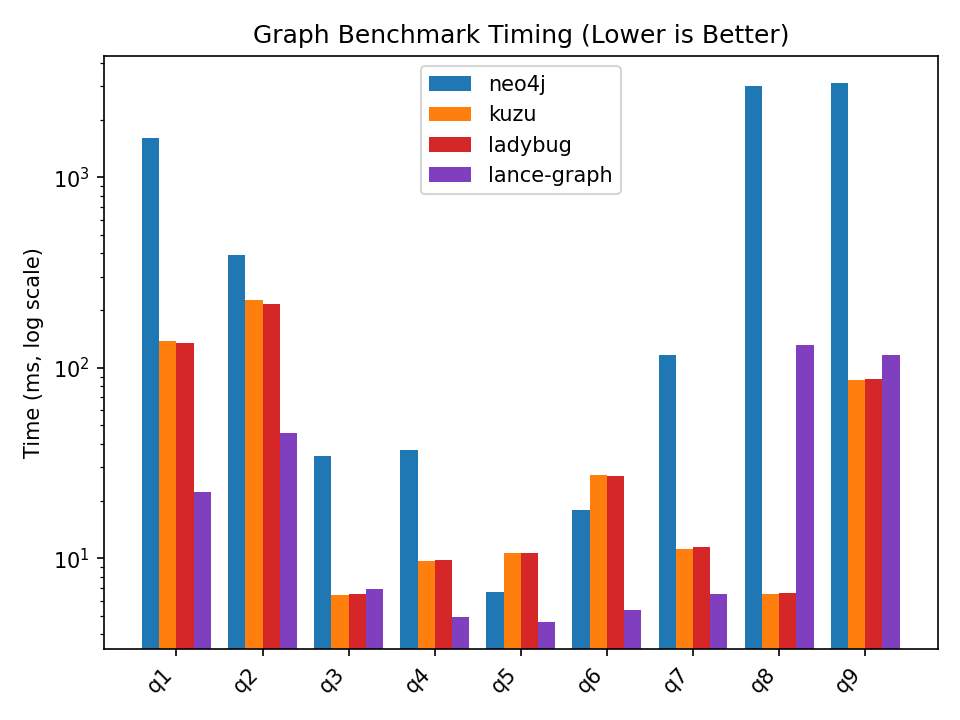
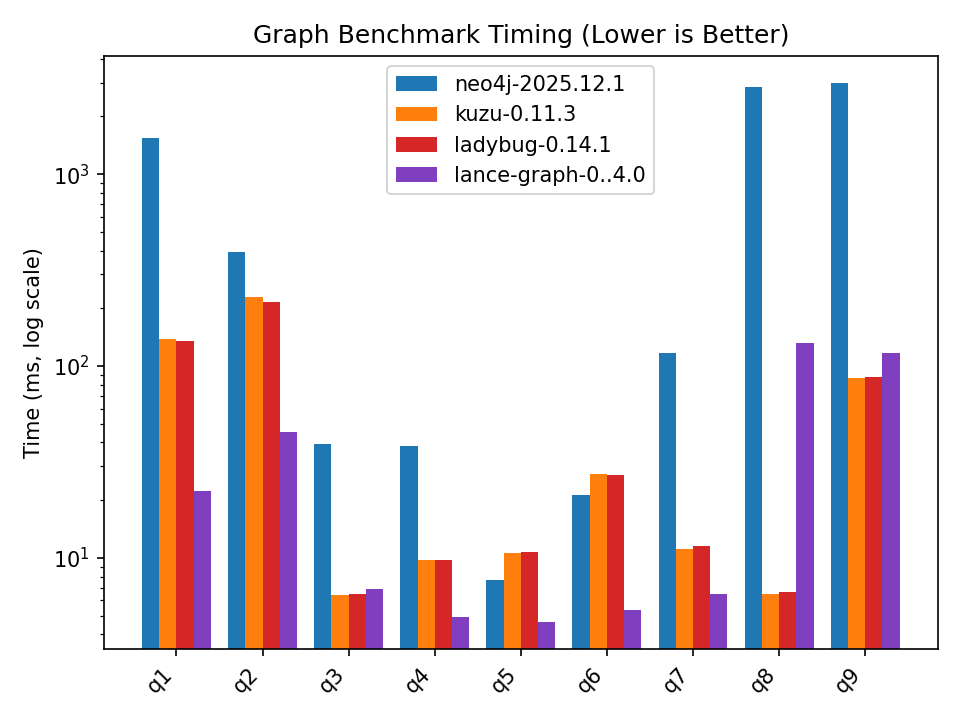
Pin versions to comparison plot (#10)
- Closes #5

diff --git a/results/compare.py b/results/compare.py
@@ -16,6 +16,10 @@ ROUND_MS_DECIMALS = 0
 SPEEDUP_DECIMALS = 1
 
 
+def normalize_name(name: str) -> str:
+    return re.sub(r"[-_.]+", "-", name).lower()
+
+
 def parse_benchmark_file(path: Path) -> dict[str, float]:
     unit: str | None = None
     unit_scale: float | None = None
@@ -60,6 +64,15 @@ def to_markdown_table(headers: list[str], rows: list[list[str]]) -> str:
     return "\n".join(lines)
 
 
+def resolve_color(system: str, color_map: dict[str, str]) -> str | None:
+    normalized_system = normalize_name(system)
+    normalized_map = {normalize_name(key): value for key, value in color_map.items()}
+    for key in sorted(normalized_map, key=len, reverse=True):
+        if key in normalized_system:
+            return normalized_map[key]
+    return None
+
+
 def plot_results(
     systems: list[str],
     queries: list[str],
@@ -94,7 +107,7 @@ def plot_results(
             series,
             width=bar_width,
             label=system,
-            color=color_map.get(system),
+            color=resolve_color(system, color_map),
         )
 
     plt.xticks(x, queries, rotation=45, ha="right")
@@ -114,10 +127,12 @@ def main() -> None:
     if not files:
         raise SystemExit("No .txt files found in results directory.")
 
-    systems = sorted(path.stem for path in files)
-    if "neo4j" in systems:
-        systems.remove("neo4j")
-        systems.insert(0, "neo4j")
+    for idx, path in enumerate(files):
+        if "neo4j" in path.stem:
+            files.insert(0, files.pop(idx))
+            break
+
+    systems = [path.stem for path in files]
     system_results = {path.stem: parse_benchmark_file(path) for path in files}
     all_queries = sorted(
         {query for results in system_results.values() for query in results},

diff --git a/neo4j/README.md b/neo4j/README.md
@@ -268,15 +268,15 @@ benchmark_query.py .........                                        [100%]
 --------------------------------------------------------------------------------- benchmark: 9 tests ---------------------------------------------------------------------------------
 Name (time in s)             Min               Max              Mean            StdDev            Median               IQR            Outliers       OPS            Rounds  Iterations
 --------------------------------------------------------------------------------------------------------------------------------------------------------------------------------------
-test_benchmark_query1     1.5546 (281.31)   1.7013 (147.82)   1.6158 (240.11)   0.0599 (62.78)    1.6031 (246.51)   0.0952 (145.78)        2;0    0.6189 (0.00)          5           1
-test_benchmark_query2     0.3849 (69.65)    0.3972 (34.51)    0.3904 (58.01)    0.0045 (4.77)     0.3907 (60.07)    0.0054 (8.21)          2;0    2.5615 (0.02)          5           1
-test_benchmark_query3     0.0308 (5.57)     0.0489 (4.25)     0.0344 (5.11)     0.0049 (5.09)     0.0326 (5.02)     0.0022 (3.30)          3;3   29.0595 (0.20)         19           1
-test_benchmark_query4     0.0335 (6.07)     0.0446 (3.87)     0.0369 (5.48)     0.0029 (3.00)     0.0358 (5.50)     0.0027 (4.12)          5;2   27.1346 (0.18)         23           1
-test_benchmark_query5     0.0055 (1.0)      0.0115 (1.0)      0.0067 (1.0)      0.0010 (1.0)      0.0065 (1.0)      0.0007 (1.0)          13;7  148.6023 (1.0)          90           1
-test_benchmark_query6     0.0150 (2.71)     0.0229 (1.99)     0.0179 (2.66)     0.0017 (1.82)     0.0177 (2.72)     0.0024 (3.74)         18;0   55.8948 (0.38)         46           1
-test_benchmark_query7     0.1136 (20.55)    0.1201 (10.43)    0.1162 (17.27)    0.0027 (2.80)     0.1146 (17.62)    0.0047 (7.15)          2;0    8.6058 (0.06)          9           1
-test_benchmark_query8     2.9622 (536.02)   3.0920 (268.65)   3.0117 (447.54)   0.0496 (52.04)    3.0087 (462.66)   0.0575 (87.95)         1;0    0.3320 (0.00)          5           1
-test_benchmark_query9     3.0849 (558.21)   3.1731 (275.69)   3.1241 (464.25)   0.0335 (35.16)    3.1153 (479.05)   0.0453 (69.28)         2;0    0.3201 (0.00)          5           1
+test_benchmark_query1     1.5302 (263.22)   1.5735 (120.31)   1.5520 (201.38)   0.0197 (13.74)    1.5539 (204.09)   0.0369 (19.42)         2;0    0.6443 (0.00)          5           1
+test_benchmark_query2     0.3904 (67.15)    0.4053 (30.99)    0.3950 (51.25)    0.0059 (4.16)     0.3936 (51.70)    0.0052 (2.76)          1;1    2.5317 (0.02)          5           1
+test_benchmark_query3     0.0328 (5.65)     0.0531 (4.06)     0.0391 (5.07)     0.0051 (3.58)     0.0381 (5.01)     0.0072 (3.80)          5;0   25.5830 (0.20)         18           1
+test_benchmark_query4     0.0345 (5.94)     0.0457 (3.49)     0.0383 (4.97)     0.0031 (2.15)     0.0376 (4.94)     0.0043 (2.29)          9;0   26.0961 (0.20)         25           1
+test_benchmark_query5     0.0058 (1.0)      0.0131 (1.0)      0.0077 (1.0)      0.0014 (1.0)      0.0076 (1.0)      0.0019 (1.0)          21;2  129.7534 (1.0)          73           1
+test_benchmark_query6     0.0176 (3.03)     0.0250 (1.91)     0.0212 (2.75)     0.0016 (1.14)     0.0210 (2.76)     0.0020 (1.07)         16;0   47.2141 (0.36)         48           1
+test_benchmark_query7     0.1147 (19.73)    0.1217 (9.31)     0.1174 (15.24)    0.0023 (1.64)     0.1166 (15.32)    0.0023 (1.19)          4;0    8.5164 (0.07)          9           1
+test_benchmark_query8     2.8002 (481.67)   2.8990 (221.67)   2.8312 (367.36)   0.0439 (30.69)    2.8040 (368.27)   0.0639 (33.63)         1;0    0.3532 (0.00)          5           1
+test_benchmark_query9     2.9634 (509.73)   3.0199 (230.91)   2.9867 (387.54)   0.0244 (17.08)    2.9736 (390.56)   0.0393 (20.66)         1;0    0.3348 (0.00)          5           1
 --------------------------------------------------------------------------------------------------------------------------------------------------------------------------------------
 
 Legend:

diff --git a/README.md b/README.md
@@ -98,17 +98,17 @@ The following questions are asked of both graphs:
 
 ## High-level results
 
-| Query | neo4j (ms) | kuzu (ms) | ladybug (ms) | lance-graph (ms) |
+| Query | neo4j 2025.12.1 (ms) | kuzu 0.11.3 (ms) | ladybug (ms) | lance-graph 0.4.0 (ms) |
 | --- | --- | --- | --- | --- |
-| q1 | 1616ms | 138ms (11.7x) | 135ms (12.0x) | 22ms (72.7x) |
-| q2 | 390ms | 228ms (1.7x) | 215ms (1.8x) | 45ms (8.6x) |
-| q3 | 34ms | 6ms (5.4x) | 6ms (5.3x) | 7ms (5.0x) |
-| q4 | 37ms | 10ms (3.8x) | 10ms (3.8x) | 5ms (7.5x) |
-| q5 | 7ms | 11ms (0.6x) | 11ms (0.6x) | 5ms (1.5x) |
-| q6 | 18ms | 27ms (0.7x) | 27ms (0.7x) | 5ms (3.4x) |
-| q7 | 116ms | 11ms (10.4x) | 11ms (10.1x) | 6ms (18.0x) |
-| q8 | 3012ms | 7ms (463.0x) | 7ms (455.8x) | 132ms (22.8x) |
-| q9 | 3124ms | 86ms (36.3x) | 88ms (35.6x) | 117ms (26.6x) |
+| q1 | 1552ms | 138ms (11.2x) | 135ms (11.5x) | 22ms (69.8x) |
+| q2 | 395ms | 228ms (1.7x) | 215ms (1.8x) | 45ms (8.7x) |
+| q3 | 39ms | 6ms (6.1x) | 6ms (6.0x) | 7ms (5.7x) |
+| q4 | 38ms | 10ms (3.9x) | 10ms (3.9x) | 5ms (7.8x) |
+| q5 | 8ms | 11ms (0.7x) | 11ms (0.7x) | 5ms (1.7x) |
+| q6 | 21ms | 27ms (0.8x) | 27ms (0.8x) | 5ms (4.0x) |
+| q7 | 117ms | 11ms (10.5x) | 11ms (10.2x) | 6ms (18.1x) |
+| q8 | 2831ms | 7ms (435.3x) | 7ms (428.5x) | 132ms (21.4x) |
+| q9 | 2987ms | 86ms (34.7x) | 88ms (34.1x) | 117ms (25.5x) |
 
 ![](./results/benchmark_plot.png)
 
